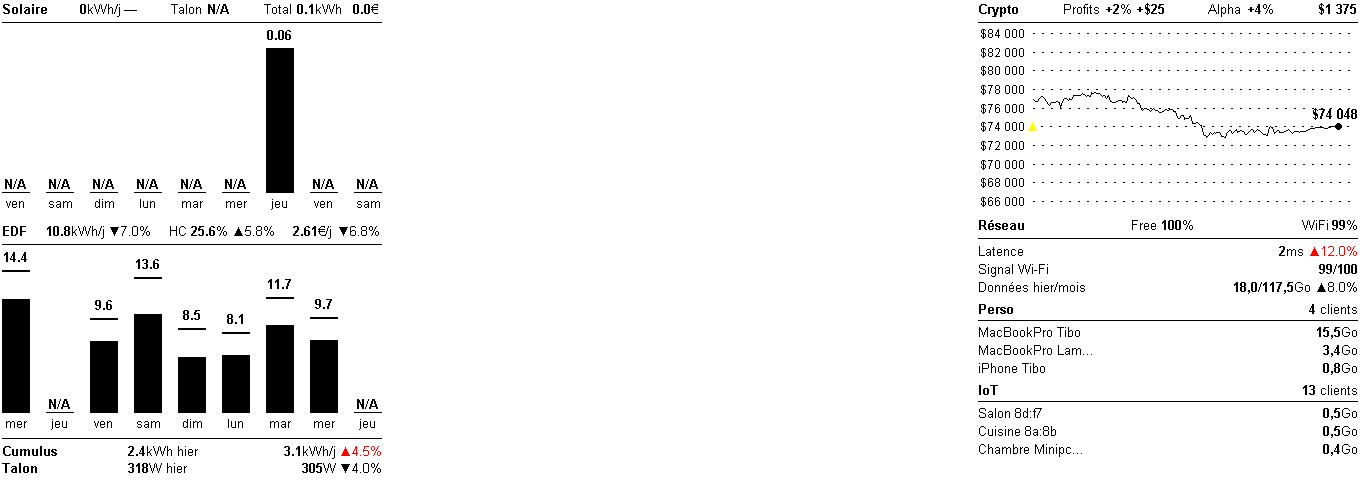
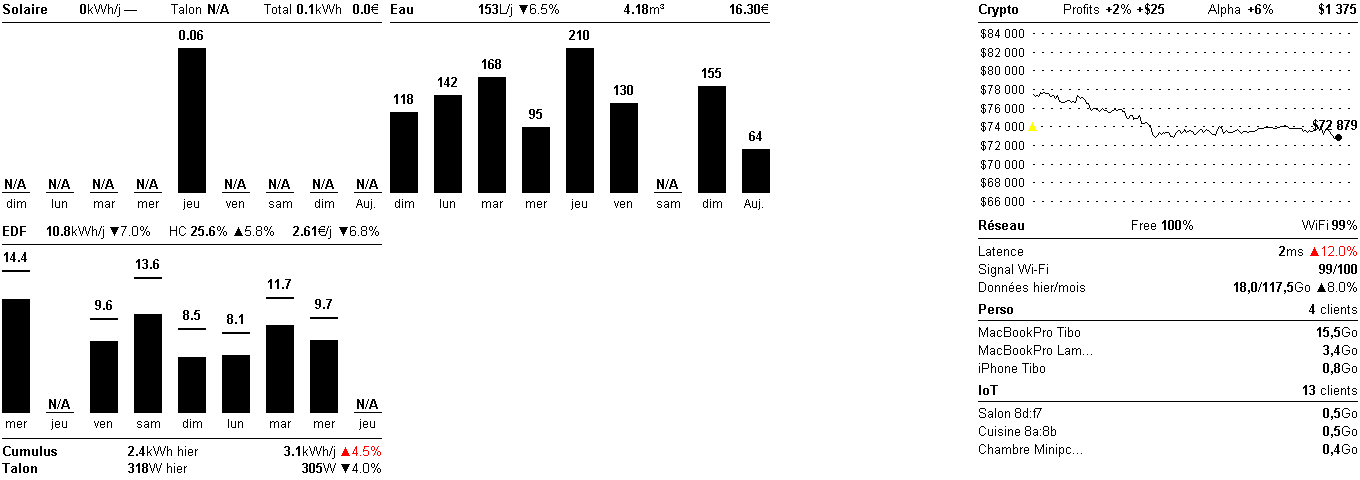
feat(water): place Eau chart top-center, today bar + 9 days
- Move the water "Eau" chart into the empty top-center space, right after the
  Solar chart (small 8px gap), so it no longer overlaps the Crypto panel.
- Solar & Water charts now end on today (rightmost bar labelled "Auj.") instead
  of yesterday, so the day's accumulation is visible. EDF stays on yesterday.
- Water: show N/A for today until its first reading (no carry-forward 0), and
  extend the chart from 7 to 9 days (aligned with Solar).
- docs: document the water meter (README + CHANGELOG entry) and declare WATER_*
  in docker-compose.casaos.yml.
- chore: scrub the server LAN IP and the crypto API token from the repo
  (README, .env.example, esp32-display/nvs_config.h, scripts/gen_preview.py);
  gen_preview now reads CRYPTO_API_URL/TOKEN from the environment only.

diff --git a/app/rendering/renderer.py b/app/rendering/renderer.py
@@ -98,9 +98,9 @@ def render_dashboard(data: dict) -> Image.Image:
                           region_top=(crypto_bottom or 12) - 2,
                           region_bottom=split - DIVIDER_GAP)
 
-    # Water consumption chart in the top-right quadrant (right of the Solar
-    # chart) — its own stats banner + daily-litres bars. Shares this region with
-    # the Crypto panel; water takes priority when present.
+    # Water consumption chart in the empty top-center space, between the Solar
+    # chart (left) and the Crypto panel (right) — its own stats banner +
+    # daily-litres bars. Sits in its own column so it never overlaps Crypto.
     water_days = data.get("water_days")
     if water_days:
         _draw_water_chart(draw, fonts, water_days, data.get("water_stats", {}),
@@ -277,15 +277,18 @@ def _draw_crypto_grid(draw, fonts, grid, region_top, region_bottom) -> None:
 
 
 def _draw_water_chart(draw, fonts, water_days, water_stats, region_top, region_bottom) -> None:
-    """Draw the dedicated water chart in the top-right quadrant (right of the
-    Solar chart): a stats banner ("Eau" + avg L/j, month total m³, cost €) over
-    daily-litres bars (single full-black bars, value in L on top, day label
-    below). Mirrors the EDF/Solar look, anchored to the right column."""
+    """Draw the dedicated water chart in the top row, right after the Solar chart
+    (small gap between them): a stats banner ("Eau" + avg L/j, month total m³,
+    cost €) over daily-litres bars (single full-black bars, value in L on top,
+    day label below). Mirrors the EDF/Solar look; sits in its own column so it
+    never overlaps the Crypto panel anchored to the right edge."""
     font_value = fonts["value"]
     font_label = fonts["label"]
 
     banner_width = MAX_DAYS * (BAR_WIDTH + BAR_GAP) - BAR_GAP
-    region_left = WIDTH - CHART_LEFT - banner_width
+    # Butt up against the Solar chart (which hugs the left edge for banner_width)
+    # with a small gap, leaving the right column free for the Crypto panel.
+    region_left = CHART_LEFT + banner_width + 8
 
     # Stats banner anchored at the top of the region (same look as chart titles).
     stats_top = region_top + CHART_TOP
@@ -311,7 +314,7 @@ def _draw_water_chart(draw, fonts, water_days, water_stats, region_top, region_b
 
     for i, d in enumerate(water_days):
         cx = region_left + i * col_width
-        label_text = d.get("day", "").lower()
+        label_text = "Auj." if d.get("today") else d.get("day", "").lower()
         lbox = draw.textbbox((0, 0), label_text, font=font_label)
         draw.text((cx + (BAR_WIDTH - (lbox[2] - lbox[0])) // 2, baseline_y + 4),
                   label_text, fill=BLACK, font=font_label)
@@ -527,7 +530,7 @@ def _draw_chart(draw, fonts, days, stats, region_top, region_height, mode):
     # --- Bars ---
     for i, d in enumerate(days):
         cx = CHART_LEFT + i * col_width
-        label_text = d.get("day", "").lower()
+        label_text = "Auj." if d.get("today") else d.get("day", "").lower()
 
         lbox = draw.textbbox((0, 0), label_text, font=font_label)
         lw = lbox[2] - lbox[0]

diff --git a/app/integrations/water/__init__.py b/app/integrations/water/__init__.py
@@ -28,7 +28,7 @@ MQTT_PASSWORD = os.environ.get("WATER_MQTT_PASSWORD", "")
 PRICE_M3 = float(os.environ.get("WATER_PRICE_M3", "0") or 0)
 
 ENABLED = bool(MQTT_HOST)
-CHART_DAYS = 7  # daily bars shown in the dedicated water chart
+CHART_DAYS = 9  # daily bars shown in the dedicated water chart
 
 _last_water_report = ""
 
@@ -97,21 +97,28 @@ def attach(data: dict):
     today = now.date()
     first_of_month = today.replace(day=1)
 
-    # Fetch enough history for the 7-day chart, its trend baseline (prev 7 days)
-    # and the month-to-date total, whichever reaches furthest back.
-    start = min(today - timedelta(days=15), first_of_month - timedelta(days=2))
+    # Fetch enough history for the chart (CHART_DAYS), its trend baseline (the
+    # CHART_DAYS before) and the month-to-date total, whichever reaches furthest
+    # back. +1 day for the diff against the day before the oldest shown.
+    start = min(today - timedelta(days=2 * CHART_DAYS + 1), first_of_month - timedelta(days=2))
     end_str = (today + timedelta(days=1)).strftime("%Y-%m-%d")
     rows = db.get_cached_water(start.strftime("%Y-%m-%d"), end_str)
 
-    # Per-day litres for the last 14 days (last 7 shown; the 7 before feed trend).
+    # No reading recorded yet today → today's bar is N/A, not a carry-forward 0
+    # (otherwise the diff against yesterday's carried-forward index reads as zero).
+    today_str = today.strftime("%Y-%m-%d")
+    has_today_reading = any(r["date"] == today_str for r in rows)
+
+    # Per-day litres for the last 2*CHART_DAYS days (last CHART_DAYS shown; the
+    # CHART_DAYS before feed the trend baseline).
     daily = []  # list of (date, litres|None) oldest->newest
-    for i in range(13, -1, -1):
+    for i in range(2 * CHART_DAYS - 1, -1, -1):
         d = today - timedelta(days=i)
         d_str = d.strftime("%Y-%m-%d")
         prev_str = (d - timedelta(days=1)).strftime("%Y-%m-%d")
         idx_d = _index_asof(rows, d_str)
         idx_prev = _index_asof(rows, prev_str)
-        if idx_d is None or idx_prev is None:
+        if idx_d is None or idx_prev is None or (i == 0 and not has_today_reading):
             litres = None
         else:
             litres = max(0.0, (idx_d - idx_prev) * 1000)
@@ -119,7 +126,8 @@ def attach(data: dict):
 
     shown = daily[-CHART_DAYS:]
     data["water_days"] = [
-        {"day": DAYS_FR[d.weekday()], "liters": litres} for d, litres in shown
+        {"day": DAYS_FR[d.weekday()], "liters": litres, "today": d == today}
+        for d, litres in shown
     ]
 
     def avg(seq):

diff --git a/scripts/gen_preview.py b/scripts/gen_preview.py
@@ -15,9 +15,9 @@ sys.path.insert(0, str(ROOT))
 # Point at the local DB (server defaults to the in-container /data path).
 os.environ.setdefault("DB_PATH", str(ROOT / ".data" / "linky.db"))
 
-# Pull the real grid from the bot for the preview unless already configured.
-os.environ.setdefault("CRYPTO_API_URL", "http://192.168.1.50:3003/graphql")
-os.environ.setdefault("CRYPTO_API_TOKEN", "***REMOVED***")
+# Pull the real grid from the bot for the preview: export CRYPTO_API_URL and
+# CRYPTO_API_TOKEN before running (kept out of the repo). Without them the
+# preview simply renders without the crypto panel.
 
 from datetime import datetime  # noqa: E402
 
@@ -74,6 +74,22 @@ if "unifi" not in data:
             ("Salon 8d:f7", "0,5"), ("Cuisine 8a:8b", "0,5"), ("Chambre Minipc…", "0,4")]},
         "main": {"label": "Perso", "count": 4, "top": [
             ("MacBookPro Tibo", "15,5"), ("MacBookPro Lam…", "3,4"), ("iPhone Tibo", "0,8")]},
+    }
+
+# The water meter needs a live MQTT broker we don't have here; inject a
+# representative 7-day history so the preview shows the top-center Eau chart.
+if "water_days" not in data:
+    from app.config import DAYS_FR
+
+    sample = [118, 142, 168, 95, 210, 130, None, 155, 64]  # last = today, mid-day partial
+    data["water_days"] = [
+        {"day": DAYS_FR[(now.weekday() - (len(sample) - 1 - i)) % 7], "liters": v,
+         "today": i == len(sample) - 1}
+        for i, v in enumerate(sample)
+    ]
+    data["water_stats"] = {
+        "avg_text": "153", "avg_pct": -6.5,
+        "month_total_text": "4.18", "cost_text": "16.30",
     }
 
 print("days:", len(data.get("days", [])),

diff --git a/app/integrations/ecoflow/__init__.py b/app/integrations/ecoflow/__init__.py
@@ -98,10 +98,11 @@ def start():
 
 
 def attach(data: dict):
-    """Add the solar production history: always the last 9 completed days.
+    """Add the solar production history: always the last 9 days, ending today.
 
-    Days without accumulated data show as N/A. Today is excluded (only complete
-    days, whose total we are sure was fully accumulated).
+    Days without accumulated data show as N/A. Today is included so its bar grows
+    as production accumulates through the day (the EDF chart can't do this — it
+    has no same-day data).
     """
     now = datetime.now(PARIS_TZ)
     today = now.date()
@@ -111,15 +112,16 @@ def attach(data: dict):
 
     production_days = []
     recent = []
-    for i in range(9, 0, -1):
+    for i in range(8, -1, -1):
         d = today - timedelta(days=i)
         ds = d.strftime("%Y-%m-%d")
         pv = prod_by_date.get(ds, 0.0)
-        production_days.append({"day": DAYS_FR[d.weekday()], "date": ds, "pv_kwh": pv})
+        production_days.append({"day": DAYS_FR[d.weekday()], "date": ds, "pv_kwh": pv,
+                                "today": d == today})
         recent.append({"pv_kwh": pv})
 
     previous = [{"pv_kwh": prod_by_date[ds]}
-                for i in range(37, 9, -1)
+                for i in range(36, 8, -1)
                 if (ds := (today - timedelta(days=i)).strftime("%Y-%m-%d")) in prod_by_date]
 
     data["production_days"] = production_days

diff --git a/README.md b/README.md
@@ -4,7 +4,7 @@
   <img src="docs/device.jpg" alt="Dashboard on its stand" width="760">
 </p>
 
-Monitor your electricity consumption from a Linky smart meter on an e-paper display. The dashboard shows the last 9 days of consumption with off-peak/peak breakdown and key indicators to track your savings. Optionally, it also shows **daily solar production** from an EcoFlow PowerStream, a **crypto-bot stats banner**, the **water-heater (cumulus) daily consumption**, and a **UniFi network panel** (internet/Wi-Fi quality, clients and top consumers) in the bottom-right.
+Monitor your electricity consumption from a Linky smart meter on an e-paper display. The dashboard shows the last 9 days of consumption with off-peak/peak breakdown and key indicators to track your savings. Optionally, it also shows **daily solar production** from an EcoFlow PowerStream, a **crypto-bot stats banner**, the **water-heater (cumulus) daily consumption**, a **water meter daily consumption** chart (`Eau`, top-center), and a **UniFi network panel** (internet/Wi-Fi quality, clients and top consumers) in the bottom-right.
 
 Rendered output:
 
@@ -55,6 +55,10 @@ A **table** below the consumption chart (under a thin separator line) shows the 
 ### Cumulus consumption (optional)
 
 When a Zigbee2MQTT broker is configured, a `Cumulus` row is added at the top of the bottom table (above the Talon row), showing the water-heater's daily consumption: yesterday's kWh and the recent daily average with its trend (last 9 days vs the previous 4 weeks; ▲ in red = consuming more). The contactor reports only instantaneous power, so daily kWh are integrated over time (no historical backfill). See the setup section below.
+
+### Water consumption (optional, top-center)
+
+When an MQTT broker is configured, an `Eau` chart is drawn in the top-center space, between the Solar chart and the Crypto panel. It shows the last **9 days** of water use as daily-litres bars (the rightmost bar, labelled `Auj.`, is **today** and grows as the day accumulates), with a title showing the average **L/day** (and its trend), the month-to-date volume in **m³** and its **€** cost. An ESPHome wM-Bus reader publishes the meter's **cumulative index (m³)** to the broker; the dashboard derives daily litres by **index difference** (not power integration, unlike Cumulus), so history starts at the first connection (no backfill). A day with no reading shows **N/A** — including today until its first frame arrives. See the setup section below.
 
 ### UniFi network panel (optional, bottom-right)
 
@@ -149,6 +153,19 @@ UNIFI_PASSWORD=your_gateway_password
 UNIFI_SITE=default
 UNIFI_SSID_IOT=your_iot_wifi_ssid      # your IoT Wi-Fi SSID
 UNIFI_SSID_MAIN=your_main_wifi_ssid    # your main Wi-Fi SSID
+```
+
+#### Optional — Water meter consumption
+
+Point the dashboard at the MQTT broker where an ESPHome wM-Bus reader publishes your water meter's **cumulative index (m³)**. The dashboard derives daily litres by **index difference** (not power integration, unlike Cumulus) — there is **no backfill**, the history starts at the first connection. Use the broker's **LAN IP** (bridge network). Credentials are optional if the broker allows anonymous connections. Set `WATER_PRICE_M3` (water + sanitation, €/m³) to show the monthly cost.
+
+```env
+WATER_MQTT_HOST=192.168.1.50
+WATER_MQTT_PORT=1883
+WATER_TOPIC=watermeter/index_m3        # cumulative index in m³ (raw float payload)
+WATER_MQTT_USERNAME=                   # omit if the broker is anonymous
+WATER_MQTT_PASSWORD=
+WATER_PRICE_M3=4.30                    # €/m³ for the cost figure (0 = hide cost)
 ```
 
 ### 3. Run with Docker Compose

diff --git a/CHANGELOG.md b/CHANGELOG.md
@@ -1,5 +1,10 @@
 # Changelog
 
+## 2026-06-01
+
+- **Water meter consumption** — optional `Eau` chart in the top-center space, between the Solar chart and the Crypto panel: the last **9 days** of water use as daily-litres bars, with a title showing the average **L/day** (and trend), the month-to-date **m³** and its **€** cost. An ESPHome wM-Bus reader publishes the meter's cumulative index (m³) over MQTT; the dashboard derives daily litres by **index difference** (not power integration, unlike Cumulus) — no backfill, history starts at first connection. A day with no reading shows **N/A**, including today until its first frame arrives. Enabled by setting `WATER_MQTT_HOST`.
+- **Solar & water "today" bar** — the Solar and Water charts now end on **today** (rightmost bar labelled `Auj.`) instead of yesterday, so the current day's accumulation is visible. The EDF consumption chart still ends on yesterday (no same-day data).
+
 ## 2026-05-31
 
 - **Solar chart precision** — the value above each bar of the solar production chart now shows two decimals (e.g. `0.06` instead of `0.1`), so small daily yields stay readable. The EDF consumption chart below keeps its one-decimal format.
